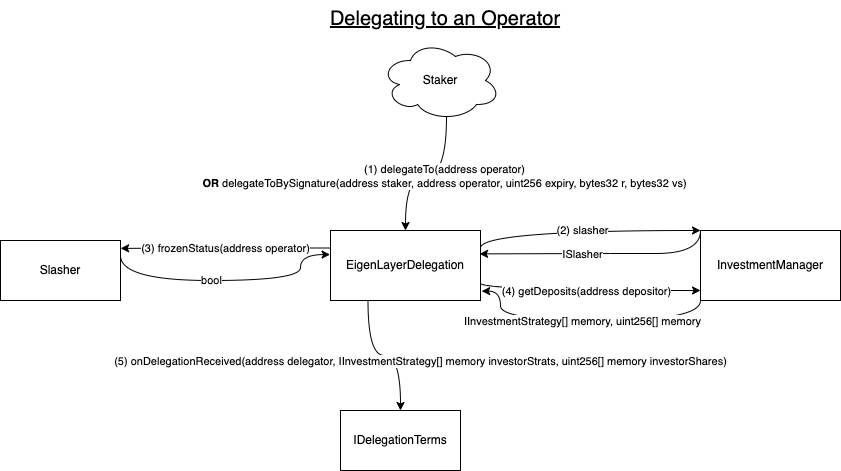
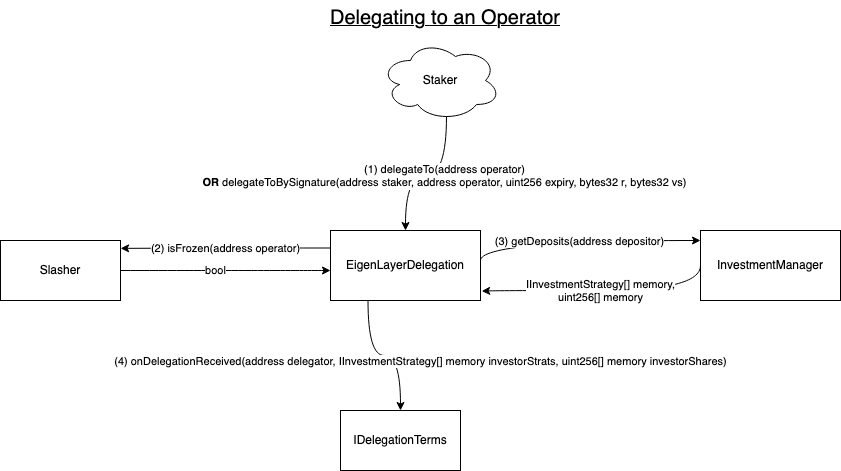
add some more details to the delegation flow
also fix the flow diagram to more accurately reflect the new architecture

diff --git a/docs/EigenLayer-delegation-flow.md b/docs/EigenLayer-delegation-flow.md
@@ -3,5 +3,16 @@
 
 While delegating to an operator is designed to be a simple process from the staker's perspective, a lot happens "under the hood".
 
+For a staker to delegate to an operator, they either:
+1. Call `EigenLayerDelegation.delegateTo`
+OR
+2. Supply an appropriate ECDSA signature, which can then be submitted by the operator (or a third party) as part of a call to `EigenLayerDelegation.delegateToBySignature`
 
-<!-- TODO: write this article -->
+In either case, the end result is the same, and the flow of calls between contracts looks identical:
+
+![Delegating in EigenLayer](images/EL_delegating.png?raw=true "Title")
+
+1. As outlined above, either the staker themselves calls `EigenLayerDelegation.delegateTo`, or the operator (or a third party) calls `EigenLayerDelegation.delegateToBySignature`
+2. The EigenLayerDelegation contract calls `Slasher.isFrozen` to verify that the operator being delegated to is not frozen
+3. The EigenLayerDelegation contract calls `InvestmentManager.getDeposits` to get the full list of the staker (who is delegating)'s deposits. It then increases the delegated share amounts of operator (who is being delegated to) appropriately
+4. The EigenLayerDelegation contract makes a call into the operator's stored `DelegationTerms`-type contract, calling the `onDelegationReceived` function to inform it of the new delegation
